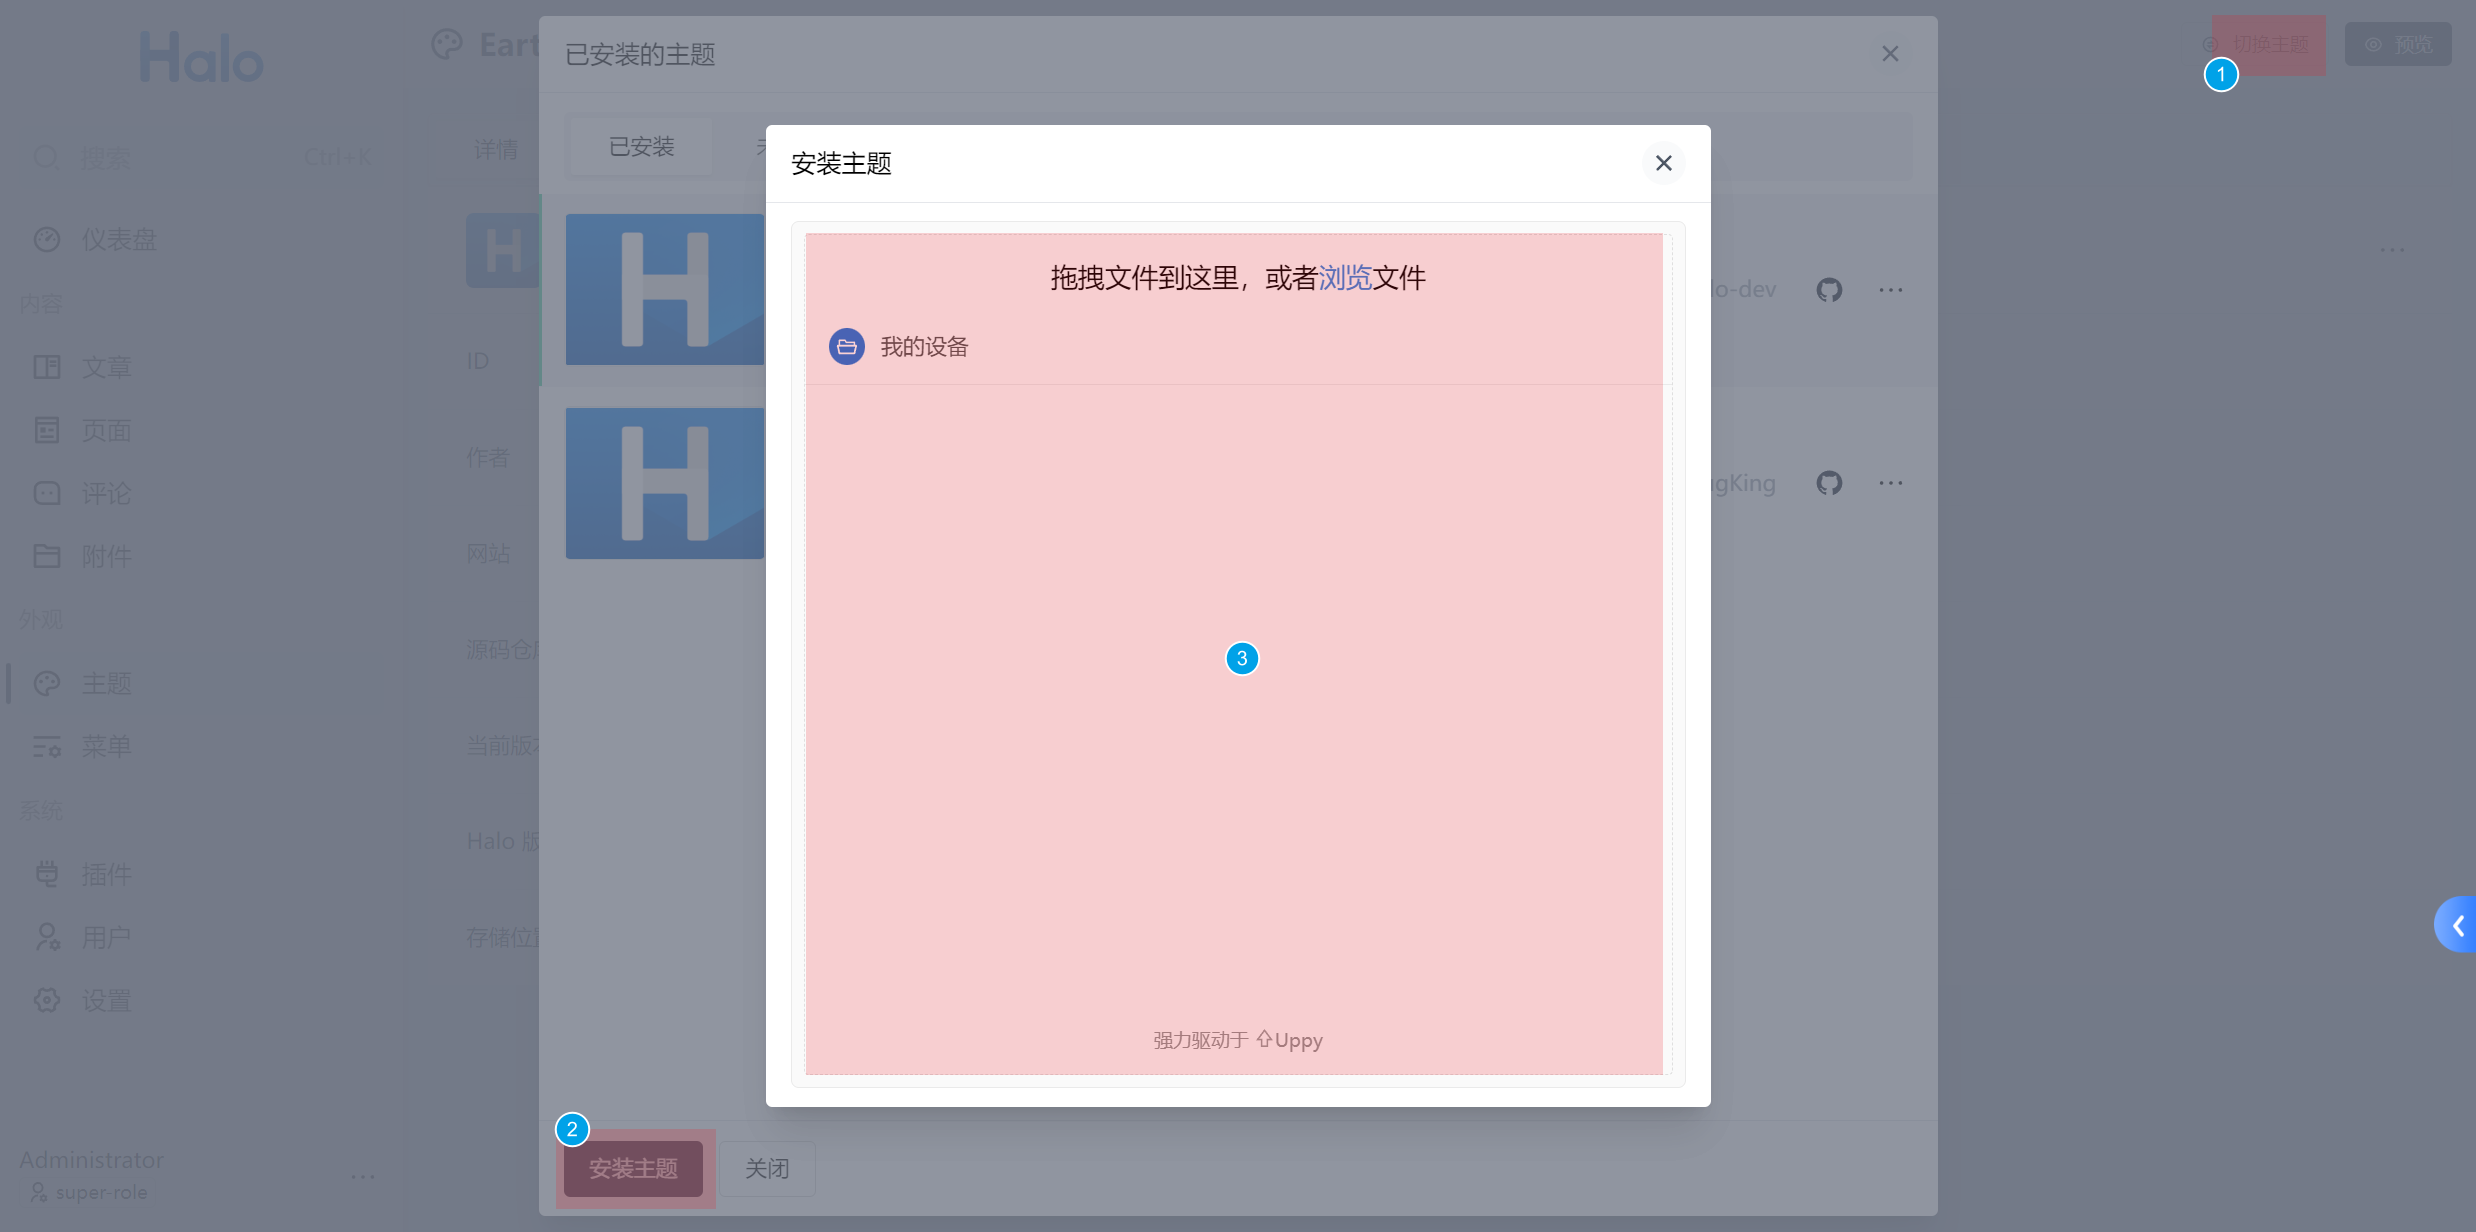
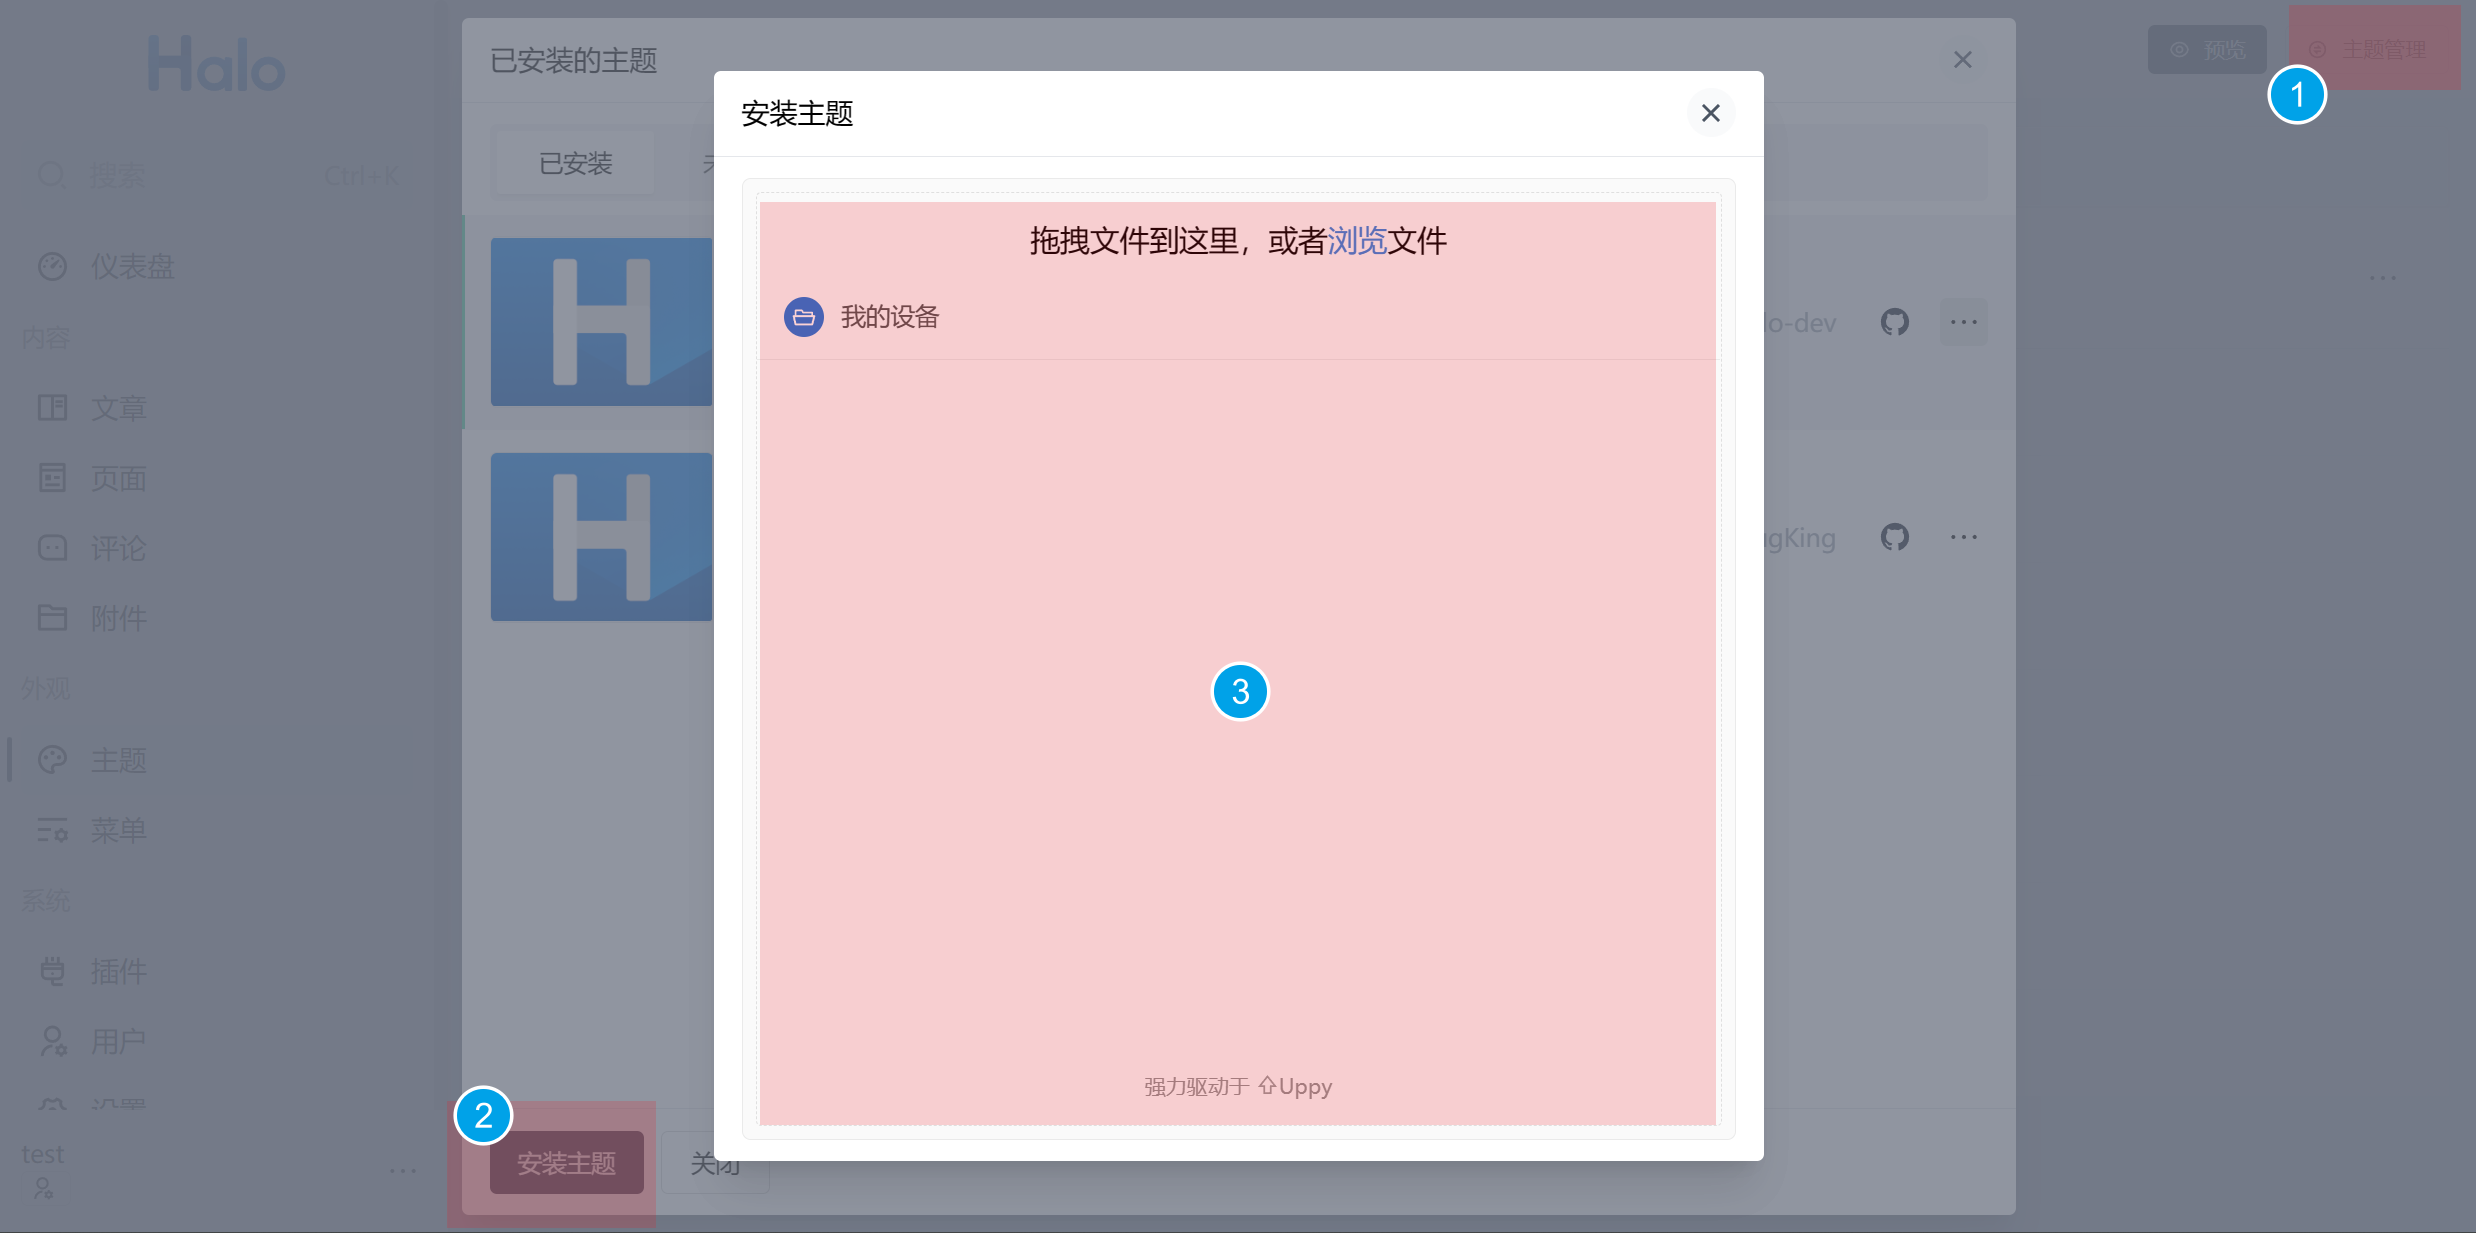
docs: 适配 2.1 版本新增功能及优化

diff --git a/docs/user-guide/themes.md b/docs/user-guide/themes.md
@@ -10,7 +10,7 @@ description: 主题管理相关功能说明
 
 ## 安装主题
 
-点击主题页面右上方的 `切换主题` 按钮即可弹出主题管理对话框。
+点击主题页面右上方的 `主题管理` 按钮即可弹出主题管理对话框。
 
 目前 Halo 提供了两种主题安装方式：
 
@@ -31,12 +31,14 @@ description: 主题管理相关功能说明
 
 ## 切换主题
 
-同样点击主题页面右上方的 `切换主题` 按钮弹出主题管理对话框。
+同样点击主题页面右上方的 `主题管理` 按钮弹出主题管理对话框。
 
 在弹框中点击选中要切换的目标主题，此时页面返回到主题详情页，点击右上角的 `启用` 按钮即可将当前主题切换为实际使用的主题。
 :::info
-仅切换主题不点击右上角的 `启用` 按钮时，不会影响当前实际使用的主题。
+仅选中主题不点击右上角的 `启用` 按钮时，不会影响当前实际使用的主题。
 :::
+
+你也可以在已安装主题列表中，通过后方 ··· 的更多操作中的启用选项直接启用指定的主题。
 
 ## 修改主题设置
 
@@ -46,6 +48,10 @@ description: 主题管理相关功能说明
 
 以 Halo 的默认主题 Earth 为例，该主题提供了布局、样式、侧边栏、页脚及备案设置共五组配置项。
 
+:::info
+你可以点击主题列表指定主题所在行后方的 `···` 更多操作按钮，选择其中的 `重置` 选项将主题提供的设置项恢复为默认值。
+:::
+
 ## 预览主题
 
 通过预览功能，你可以在不更改当前启用主题的情况下查看不同主题的效果。点击主题详情页面右上角的 `预览` 按钮预览当前主题，或者进入已安装主题列表，通过后方 `···` 的更多操作中的预览选项预览指定的主题。
@@ -54,15 +60,21 @@ description: 主题管理相关功能说明
 
 在主题预览页面你可以切换不同分辨率的设备，模拟主题在不同终端下的显示效果。也可以通过右上角的功能菜单切换预览的主题，或者调整当前主题的设置，查看不同设置下主题所展现的区别。
 
-## 更新主题
+## 升级主题
 
-点击主题详情页右上角的 `···` 更多操作按钮，选择其中的 `更新` 选项即可上传新的主题包对当前主题进行更新。
+点击主题详情页右上角的 `···` 更多操作按钮，选择其中的 `升级` 选项即可上传新的主题包对当前主题进行升级更新。
 
 ## 重载主题配置
 
-如果当前主题提供的设置象发生变化，可以通过 `···` 更多中的 `重载主题配置` 选项对主体配置项进行更新。
+如果当前主题提供的设置项发生变化，可以通过 `···` 更多操作中的 `重载主题配置` 选项对主题配置项进行更新。
 
 ## 卸载主题
 
-进入已安装主题列表，通过后方 `···` 的更多操作中的卸载选项即可卸载指定的主题。
+进入已安装主题列表，点击指定主题所在行后方的 `···` 更多操作按钮，选择其中的 `卸载` 选项即可对当前主题进行卸载。
+
 ![卸载主题](/img/user-guide/themes/theme-uninstall.png)
+
+:::info
+目前提供了 `卸载` 及 `卸载并删除配置` 两种卸载方式。
+仅卸载主题时主题的配置信息会进行保留，当重新安装主题后还可以使用之前已保存的配置。
+:::

diff --git a/docs/user-guide/posts.md b/docs/user-guide/posts.md
@@ -11,6 +11,9 @@ description: 文章管理相关功能说明
 仪表盘中需要存在快捷访问组件（默认存在）。关于仪表盘组件配置，请参考《用户指南-仪表盘》章节。
 :::
 2. 通过左侧导航栏进入文章页面，点击右上角的新建按钮
+:::info
+如果安装并启用了额外的编辑器插件，点击新建文章按钮后还需要选择所使用的编辑器。以下文档内容均使用默认编辑器进行说明。
+:::
 
 进入到如下页面后，你就可以开始编辑自己的文章内容了：
 
@@ -55,7 +58,8 @@ description: 文章管理相关功能说明
   - **私有**：仅文章作者可以看到这篇文章。
 - **发表时间**：手动指定文章的发表时间，未指定时以实际发布时间为准；
 - **自定义模板**：主题端使用哪一个文章模板进行页面渲染；
-- **封面图**：用户在主题端显示的文章封面图，需要主题支持该功能。
+- **封面图**：用户在主题端显示的文章封面图，需要主题支持该功能；
+- **元数据**：供主题、插件使用的额外数据信息。例如 Halo 官网主题仓库中的主题，便可以使用该功能为主题类型的文章增加一条名为下载地址的元数据，提供对应主题的下载链接。
 
 ## 发布及取消发布
 
@@ -96,7 +100,8 @@ description: 文章管理相关功能说明
 - **别名**：用于分类 URL 路径定位。默认路径规则为 `$HALO_EXTERNAL_URL/categories/{slug}`，其中 `slug` 为分类别名，访问该地址即可浏览该分类下的所有文章。分类页路由前缀可[在设置中修改](./settings#主题路由设置)；
 - **自定义模板**：主题端使用哪一个文章分类模板进行页面渲染；
 - **封面图**：用户在主题端显示的文章分类封面图，需要主题支持该功能；
-- **描述**：关于改文章分类的更多描述信息。
+- **描述**：关于改文章分类的更多描述信息；
+- **元数据**：供主题、插件使用的额外数据信息。例如部分主题期望使用不同的颜色对分类进行区分，便可以使用该功能为分类增加颜色相关的元数据。
 
 ### 调整分类层级
 
@@ -129,6 +134,7 @@ description: 文章管理相关功能说明
 - **别名**：用于标签 URL 路径定位。默认路径规则为 `$HALO_EXTERNAL_URL/tags/{slug}`，其中 `slug` 为标签别名，访问该地址即可浏览具有该标签的所有文章。标签页路由前缀可[在设置中修改](./settings#主题路由设置)；
 - **颜色**：用于在控制台及主题端显示的标签颜色，主题端显示颜色需要主题支持该功能；
 - **封面图**：用户在主题端显示的标签封面图，需要主题支持该功能；
+- **元数据**：供主题、插件使用的额外数据信息。
 
 ### 修改删除标签
 

diff --git a/docs/user-guide/plugins.md b/docs/user-guide/plugins.md
@@ -27,6 +27,10 @@ description: 插件管理相关功能说明
 
 以 Unsplash 插件为例，该提供仅在基本设置组中提供了 `Access Key` 一项配置，用于调用 Unsplash 接口。
 
+:::info
+你可以点击插件列表指定插件所在行后方的 `···` 更多操作按钮，选择其中的 `重置` 选项将插件提供的设置项恢复为默认值。
+:::
+
 ## 启用/禁用插件
 
 点击插件列表或插件详情页中的启用/禁用开关，即可切换插件的启用禁用状态。
@@ -39,9 +43,10 @@ description: 插件管理相关功能说明
 
 ## 卸载插件
 
-点击插件列表指定插件所在行后方的 `···` 更多操作按钮，选择其中的 `卸载` 或 `卸载并删除配置` 选项即可对当前插件进行卸载。
+点击插件列表指定插件所在行后方的 `···` 更多操作按钮，选择其中的 `卸载` 选项即可对当前插件进行卸载。
 ![卸载插件](/img/user-guide/plugins/plugin-uninstall.png)
 
 :::info
+目前提供了 `卸载` 及 `卸载并删除配置` 两种卸载方式。
 仅卸载插件时插件的配置信息会进行保留，当重新安装插件后还可以使用之前已保存的配置。
 :::

diff --git a/docs/user-guide/users.md b/docs/user-guide/users.md
@@ -30,6 +30,7 @@ Halo 中的权限控制体系示例:
 - **手机号**
 - **头像**
 - **描述**
+- **元数据**：供主题、插件使用的额外数据信息。例如部分主题期望展示作者的学历、工作单位等信息，便可以使用该功能为用户增加相关的元数据。
 
 ### 其他操作
 
